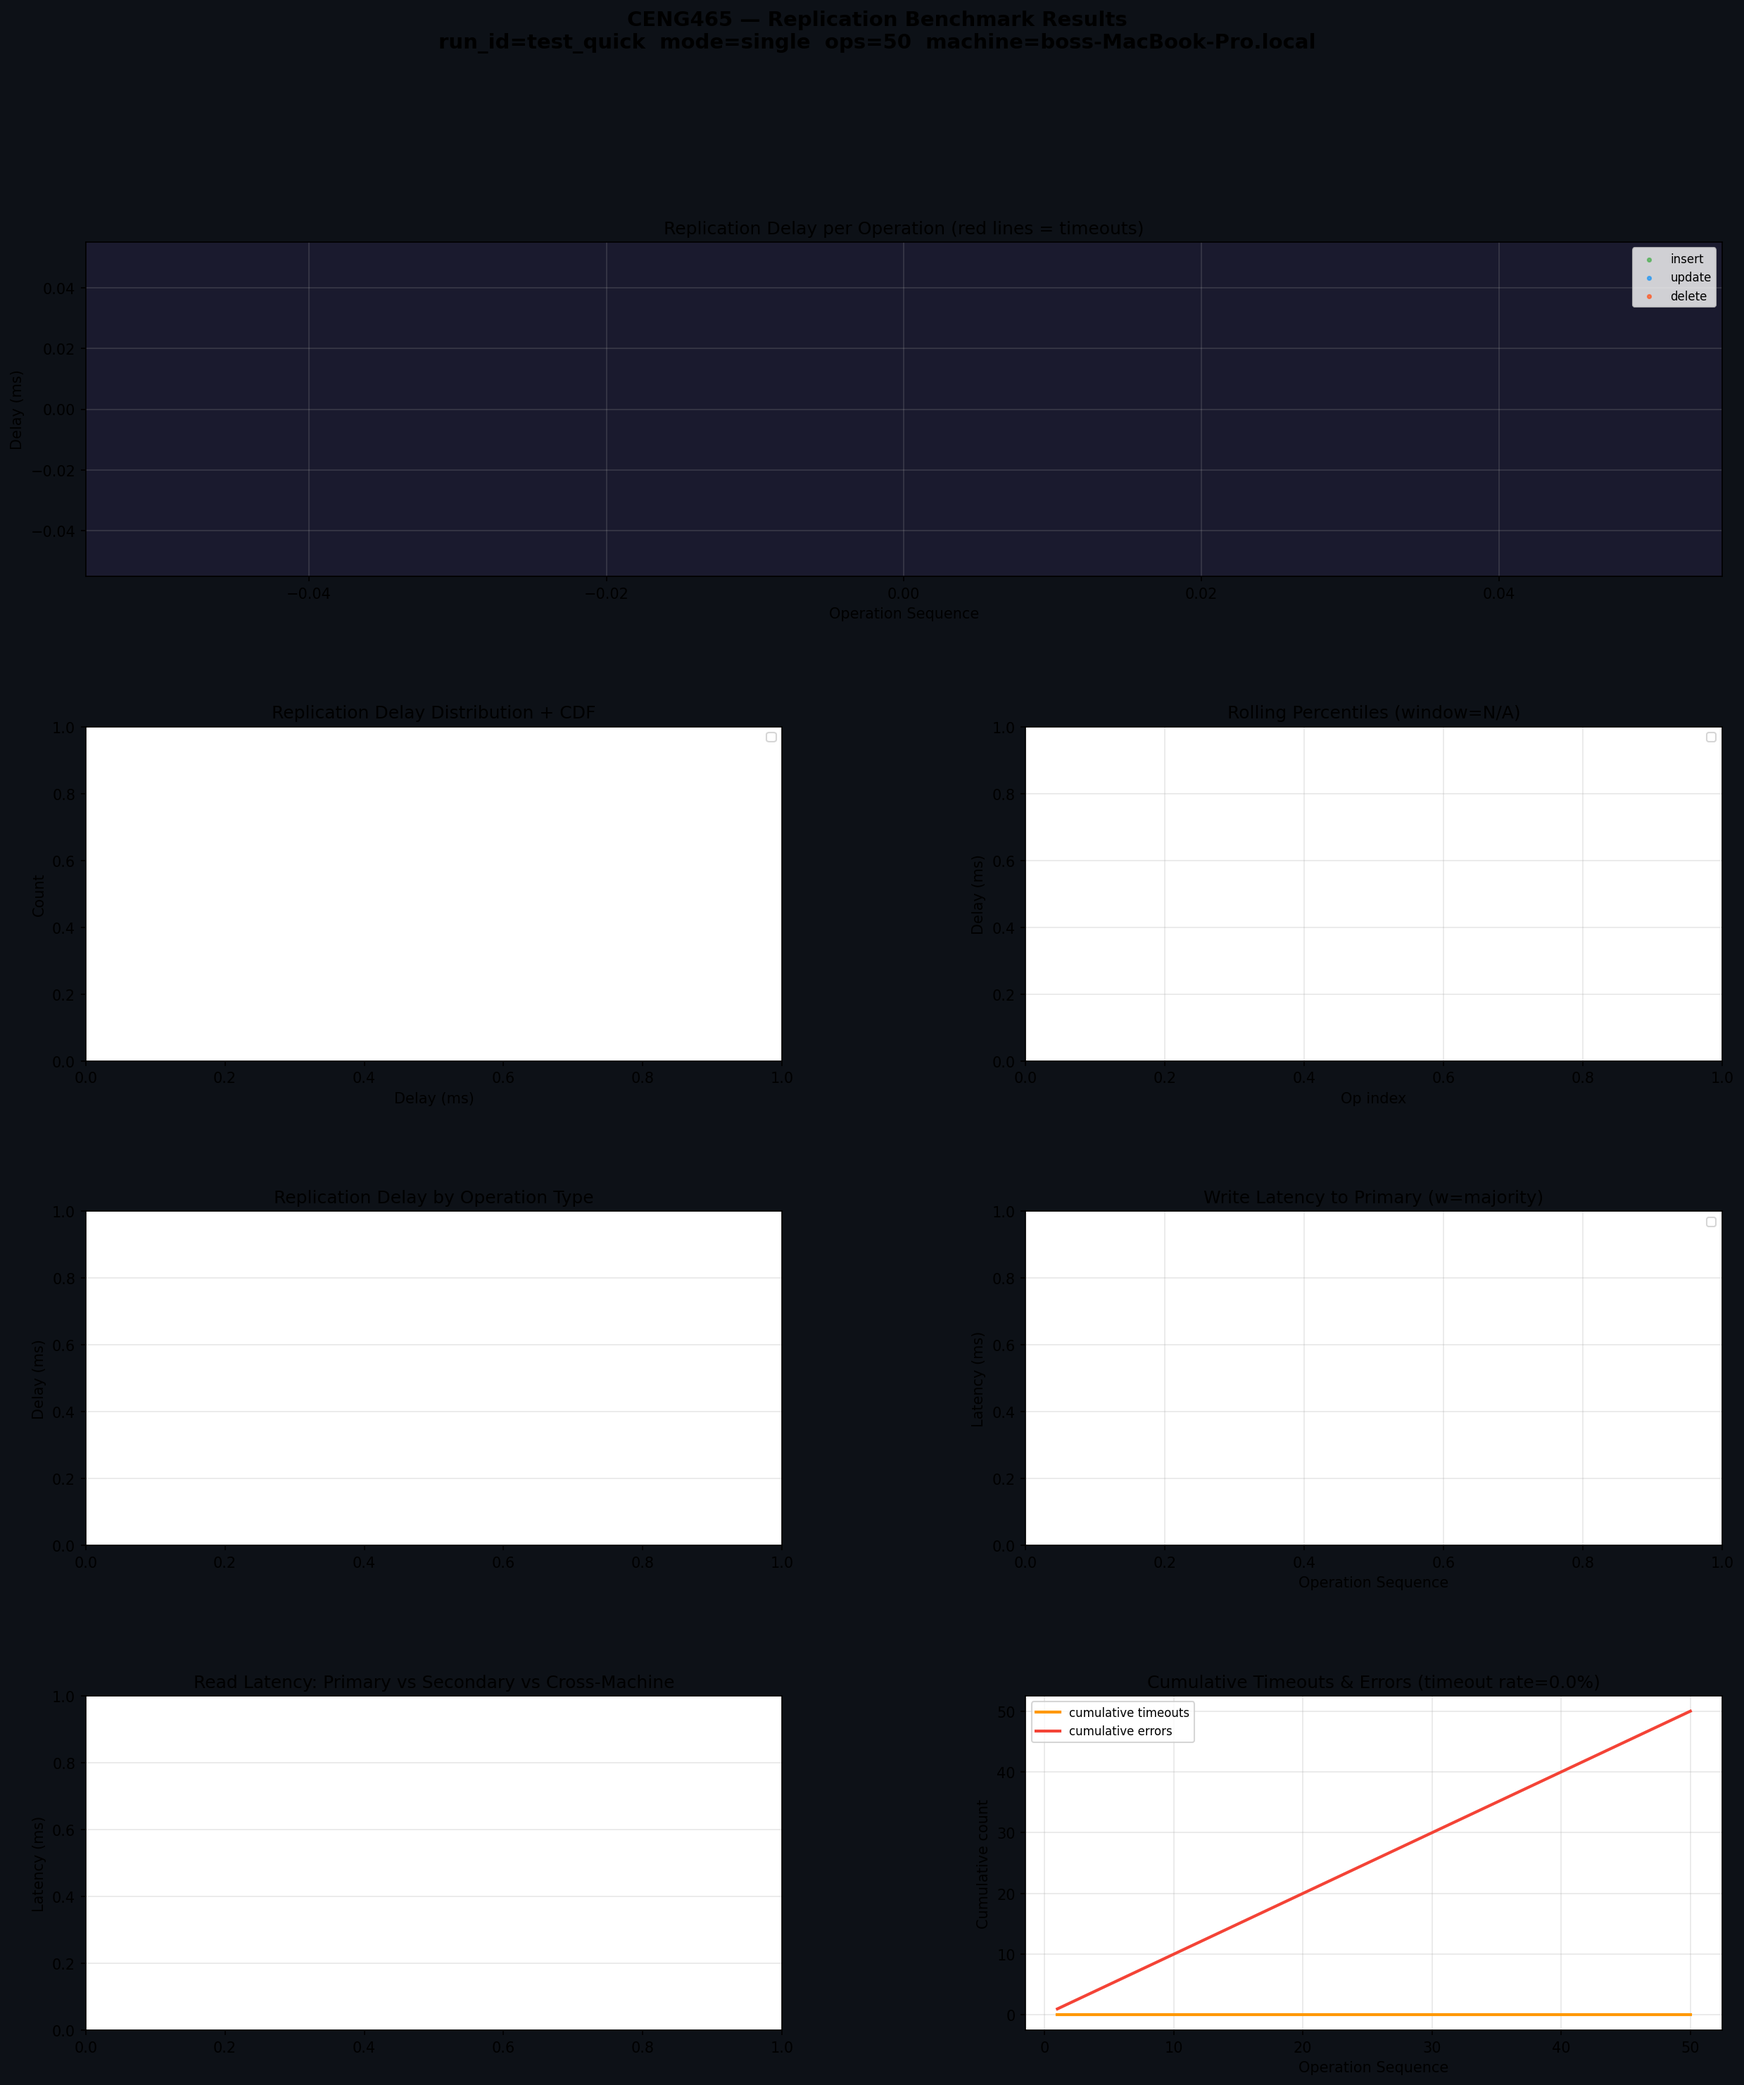
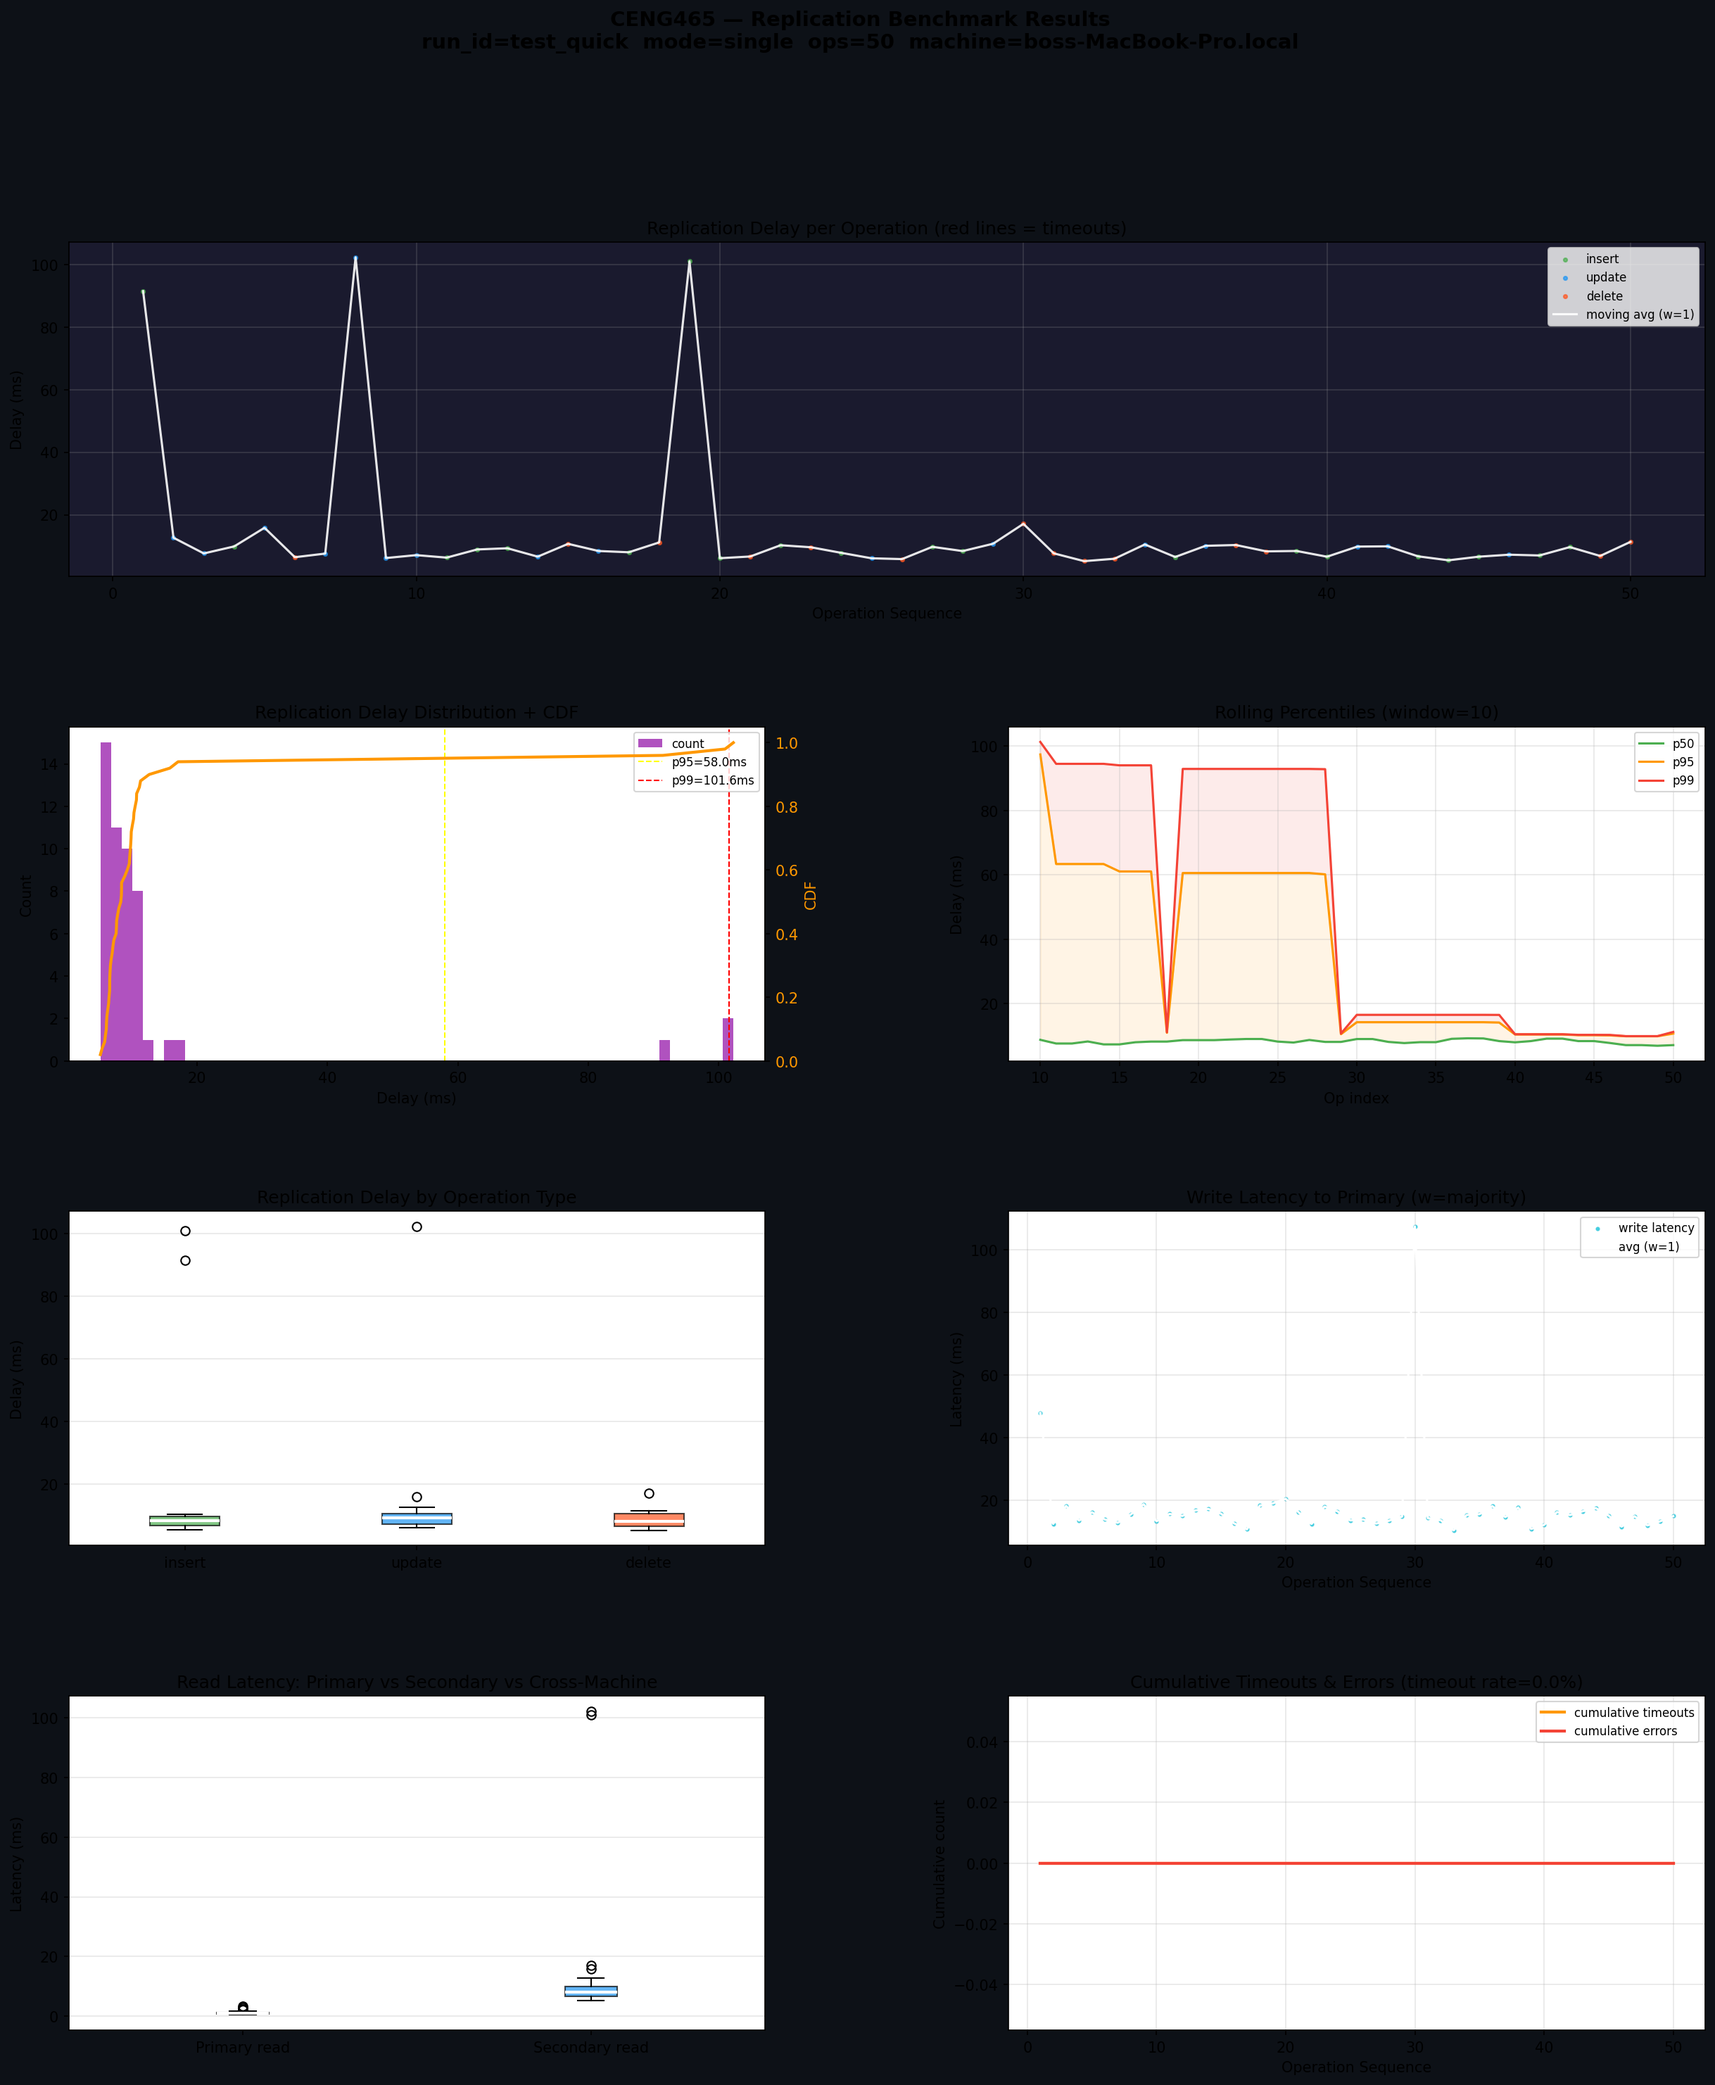
2

diff --git a/control_node/benchmark.py b/control_node/benchmark.py
@@ -84,14 +84,14 @@ def do_insert(pdb, key: str, value: dict, term: int, log_idx: int, op_id: str) -
         "deleted": False,
     }
     t0 = now_ms()
-    result = pdb["items"].with_options(WriteConcern(w="majority")).insert_one(doc)
+    result = pdb["items"].with_options(write_concern=WriteConcern(w="majority")).insert_one(doc)
     write_ms = now_ms() - t0
     return result.inserted_id, write_ms
 
 
 def do_update(pdb, item_id, new_value: dict, version_after: int, term: int, log_idx: int, op_id: str) -> float:
     t0 = now_ms()
-    pdb["items"].with_options(WriteConcern(w="majority")).update_one(
+    pdb["items"].with_options(write_concern=WriteConcern(w="majority")).update_one(
         {"_id": item_id},
         {"$set": {
             "value": new_value, "version": version_after,
@@ -104,7 +104,7 @@ def do_update(pdb, item_id, new_value: dict, version_after: int, term: int, log_
 
 def do_delete(pdb, item_id, version_after: int, term: int, log_idx: int, op_id: str) -> float:
     t0 = now_ms()
-    pdb["items"].with_options(WriteConcern(w="majority")).update_one(
+    pdb["items"].with_options(write_concern=WriteConcern(w="majority")).update_one(
         {"_id": item_id},
         {"$set": {
             "deleted": True, "version": version_after,
@@ -597,7 +597,7 @@ def generate_charts(results: list[dict], run_id: str, mode: str):
     if by_op_data:
         bp = ax4.boxplot(
             list(by_op_data.values()),
-            labels=list(by_op_data.keys()),
+            tick_labels=list(by_op_data.keys()),
             patch_artist=True,
             medianprops={"color": "white", "linewidth": 2},
         )
@@ -642,7 +642,7 @@ def generate_charts(results: list[dict], run_id: str, mode: str):
         data_box.append(cross_vals)
         colors_box.append("#FF5722")
     if data_box:
-        bp2 = ax6.boxplot(data_box, labels=labels_box, patch_artist=True,
+        bp2 = ax6.boxplot(data_box, tick_labels=labels_box, patch_artist=True,
                           medianprops={"color": "white", "linewidth": 2})
         for patch, color in zip(bp2["boxes"], colors_box):
             patch.set_facecolor(color)
